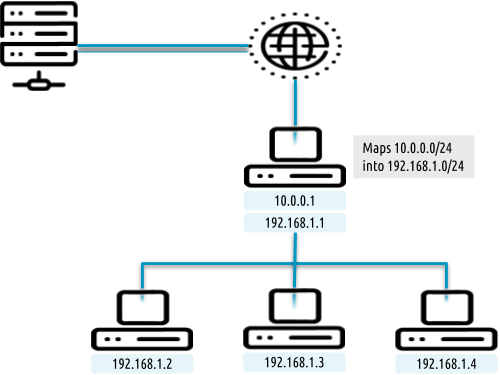
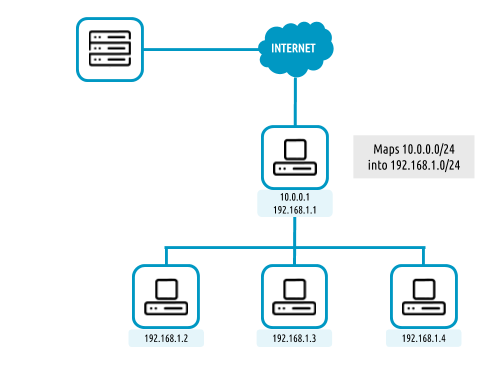
F #4132: Add docs for network mapping

Changed region(s): [[0.0, 0.0, 1.0, 0.9973], [0.72, 0.3813, 0.93, 0.4693]]

diff --git a/source/advanced_components/application_flow_and_auto-scaling/appflow_use_cli.rst b/source/advanced_components/application_flow_and_auto-scaling/appflow_use_cli.rst
@@ -191,56 +191,91 @@ You can also use them through the CLI. When you instantiate the template using `
 Network mapping
 --------------------------------------------------------------------------------
 
-Network mapping can be achieved by using custom attributes. Only three steps are required for mapping all the IP addresses from an internal network into an external one, as shown in the image below:
+Network mapping can be achieved by using OneFlow and OneGate together. Only four steps are required for mapping IP addresses from an internal network into an external one, as shown in the image below:
 
 |oneflow-network-mapping|
 
-**Defining Custom Attributes at OneFlow Template**
+**Upload the Network Mapping script**
 
-First of all two custom attributes must be defined at the service template ``INTERNAL`` and ``EXTERNAL`` which will contains the network addresses that are going to be mapped.
+First of all, it is necessary to upload the Network Mapping script to a :ref:`Kernels & Files Datastore <file_ds>`. The steps below must be followed:
 
-**Preparing the VM Template**
+* Include ``/usr/share/one/start-script`` path in ``SAFE_DIRS``.
 
-The VM template used for the router needs to be prepared:
+  |oneflow-network-mapping-fileds_safedirs|
 
-  - Define two custom attributes at context to retrieve the value of the service custom attributes:
+* Create a file of type ``Context`` stored in the File Datastore. Set ``Path in OpenNebula server`` to ``/usr/share/one/start-scripts/map_vnets_start_script``.
 
-    .. code::
+  |oneflow-network-mapping-create_file|
 
-      CONTEXT=[
-        ...
-        INTERNAL = $INTERNAL
-        EXTERNAL = $EXTERNAL
-      ]
+**Preparing the Router Virtual Machine Template**
 
-  - Define an init script to set the firewall rules when the VM boots:
+A custom Virtual Machine template acting as router is also needed. Steps similar to those below should be followed:
 
-    Something like this can be used for mapping two equals size networks into each other:
+* Storage. Choose a disk image. For instance, a light weight Alpine that can be get on :ref:`OpenNebula Systems MarketPlace <market_one>`.
 
-    .. code::
+* Network. Set ``virtio`` as ``Default hardware model to emulate for all NICs``.
 
-      sysctl net.ipv4.ip_forward=1
-      iptables -t nat  -A PREROUTING -d $EXTERNAL -j NETMAP --to $INTERNAL
-      iptables -t nat  -A POSTROUTING -s $INTERNAL  ! -d $INTERNAL -j NETMAP --to $EXTERNAL
+* Context:
 
-    The VM template should looks like this after adding the script:
+  * Configuration:
 
-    .. code::
+    * ``Add OneGate token`` must be checked (this is also aplicable to all templates used in the Service Template).
 
-      CONTEXT=[
-        ...
-        INTERNAL = $INTERNAL
-        EXTERNAL = $EXTERNAL
-        ...
[1 lines of base64/hex data omitted]
-      ]
+    * Copy the contents of ``/usr/share/one/start-scripts/cron_start_script`` in ``Start script``.
+
+      |oneflow-network-mapping-router_context_config|
+
+    * Files. Select the network mapping script previously uploaded to the File Datastore.
+
+      |oneflow-network-mapping-router_context_files|
+
+**Prepare the Service Template**
+
+As a proof of concept, a Service Template similar to the one below can be prepared:
+
+* Network configuration. Declare the *Public* and *Private* networks to be used on instantiation.
+
+  |oneflow-network-mapping-service_template_nw_config|
+
+* Role ``router``. Select the previously cretated Router Virtual Template, and check ``Private`` and ``Public`` in ``Network Interfaces``.
+
+  |oneflow-network-mapping-service_template_role_router|
+
+* Role ``worker``. Select a Virtual Machine Template, check only ``Private`` in ``Network Interfaces``, and check ``router`` in ``Parent roles``.
+
+  |oneflow-network-mapping-service_template_role_worker|
 
 **Instantiate the Service Template**
 
-During the service instantiate process just fill the ``EXTERNAL`` and ``INTERNAL`` values with the network address in CIDR format. For the example of the pictures above: ``EXTERNAL=10.0.0.0/24`` and ``INTERNAL=192.168.1.0/24``.
+At this point the Service Template can be instantiated. On instantiation a deployment similar to the one below will be obtained.
 
-.. warning:: Note that this will only apply a firewall rules. In order to everything works properly the networks attached to each VM must makes sense with the values specified for ``EXTERNAL`` and ``INTERNAL`` attributes.
+|oneflow-network-mapping-service_instantiation_init|
 
+If a ``NIC_ALIAS`` on *Pulic* network is attached to any of the virtual machines on the *worker* role, the specific machine can be reached by using the IP address assigned to the ``NIC_ALIAS``.
+
+|oneflow-network-mapping-service_instantiation_alias1|
+
+.. code::
+
+   $ ping -c1 10.0.0.2
+   PING 10.0.0.2 (10.0.0.2) 56(84) bytes of data.
+   64 bytes from 10.0.0.2: icmp_seq=1 ttl=64 time=0.936 ms
+
+   --- 10.0.0.2 ping statistics ---
+   1 packets transmitted, 1 received, 0% packet loss, time 0ms
+   rtt min/avg/max/mdev = 0.936/0.936/0.936/0.000 ms
+
+If the ``NIC_ALIAS`` on *Pulic* network is detached from the virtual machine, the connectivity -through the previously- assigned IP address is lost.
+
+.. code::
+
+   $ ping -c1 10.0.0.2
+   PING 10.0.0.2 (10.0.0.2) 56(84) bytes of data.
+
+   --- 10.0.0.2 ping statistics ---
+   1 packets transmitted, 0 received, 100% packet loss, time 0ms
+
+.. warning:: It takes up to one minute, half a minute on average, to configure the rules on *iptables*.
 
 Managing Services
 =================
@@ -630,3 +665,12 @@ Read the :ref:`elasticity policies documentation <appflow_elasticity>` for more 
 .. |oneflow-templates-net-5| image:: /images/oneflow-templates-net-5.png
 .. |oneflow-templates-attrs| image:: /images/oneflow-templates-attrs.png
 .. |oneflow-network-mapping| image:: /images/oneflow-network-map.png
+.. |oneflow-network-mapping-fileds_safedirs| image:: /images/oneflow-network-map-fileds_safedirs.png
+.. |oneflow-network-mapping-create_file| image:: /images/oneflow-network-map-create_file.png
+.. |oneflow-network-mapping-router_context_config| image:: /images/oneflow-network-map-router_context_config.png
+.. |oneflow-network-mapping-router_context_files| image:: /images/oneflow-network-map-router_context_files.png
+.. |oneflow-network-mapping-service_template_nw_config| image:: /images/oneflow-network-map-service_template_nw_config.png
+.. |oneflow-network-mapping-service_template_role_router| image:: /images/oneflow-network-map-service_template_role_router.png
+.. |oneflow-network-mapping-service_template_role_worker| image:: /images/oneflow-network-map-service_template_role_worker.png
+.. |oneflow-network-mapping-service_instantiation_init| image:: /images/oneflow-network-map-service_instantiation_init.png
+.. |oneflow-network-mapping-service_instantiation_alias1| image:: /images/oneflow-network-map-service_instantiation_alias1.png
